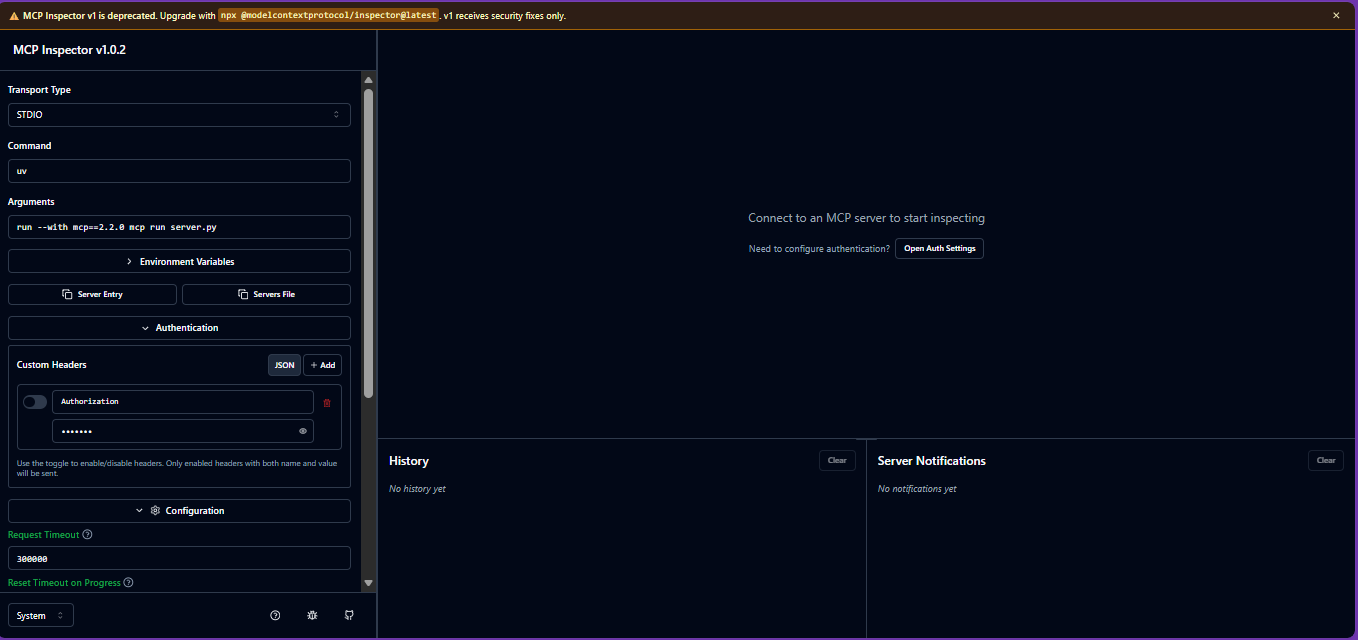
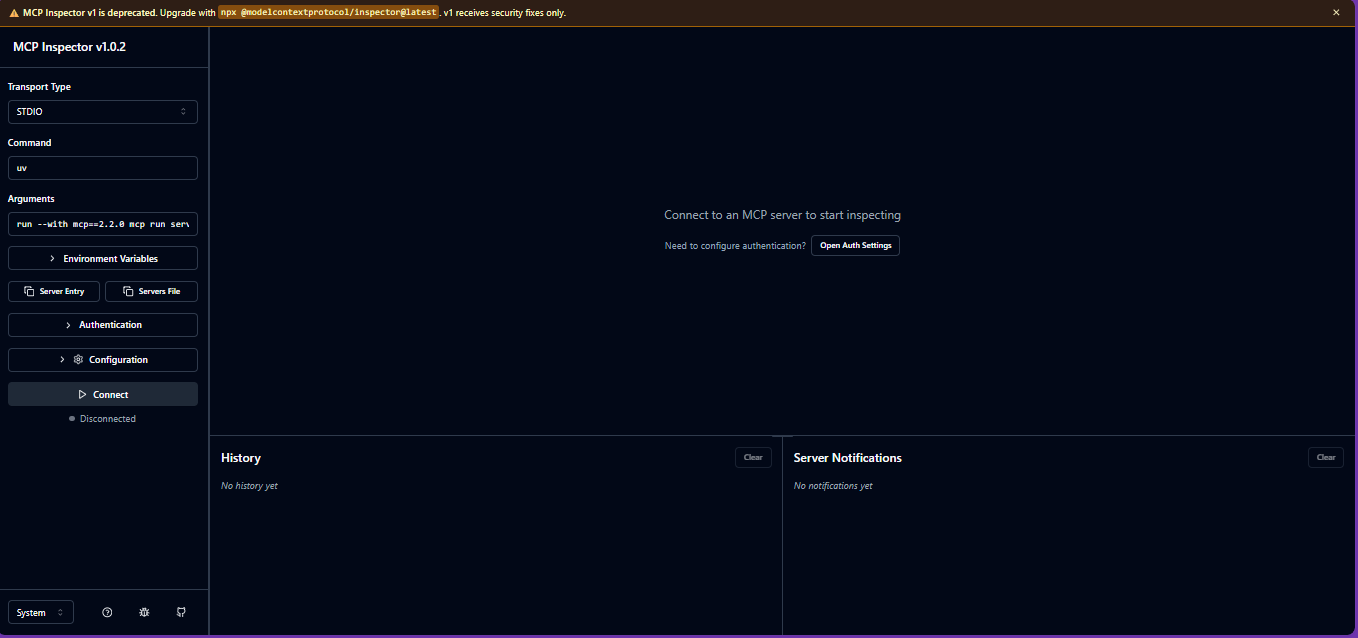
feat: capturas

diff --git a/02-servidor-minimo-e-inspector/README.md b/02-servidor-minimo-e-inspector/README.md
@@ -55,13 +55,27 @@ El Inspector valida automáticamente en el frontend basándose en el JSON Schema
 ## Capturas
 ------------------------------
 #### Sin conexión:
-[imagen sin conexion](images/desconectado.png)
+
+<p align="center">
+ <img src="images/desconectado.png" width="1000" alt="desconectado">
+</p>
 
 ### Conectado:
-[imagen conexion](images/conectado.png)
+
+<p align="center">
+ <img src="images/conectado.png" width="1000" alt="conectado">
+</p>
 
 ### Mensajes
-[imagen servidor activo](images/mensaje-json.png)
 
-[imagen suma 2 más 3 exitosa](images/valores-validos.png)
-[imagen respuesta 5 de la suma](images/respuesta-exitosa.png)
+<p align="center">
+ <img src="images/mensaje-json.png" width="600" alt="mensaje de conexión">
+</p>
+
+<p align="center">
+ <img src="images/valores-validos.png" width="600" alt="suma 2 más 3">
+</p>
+
+<p align="center">
+ <img src="images/respuesta-exitosa.png" width="600" alt="resultado es 5">
+</p>
